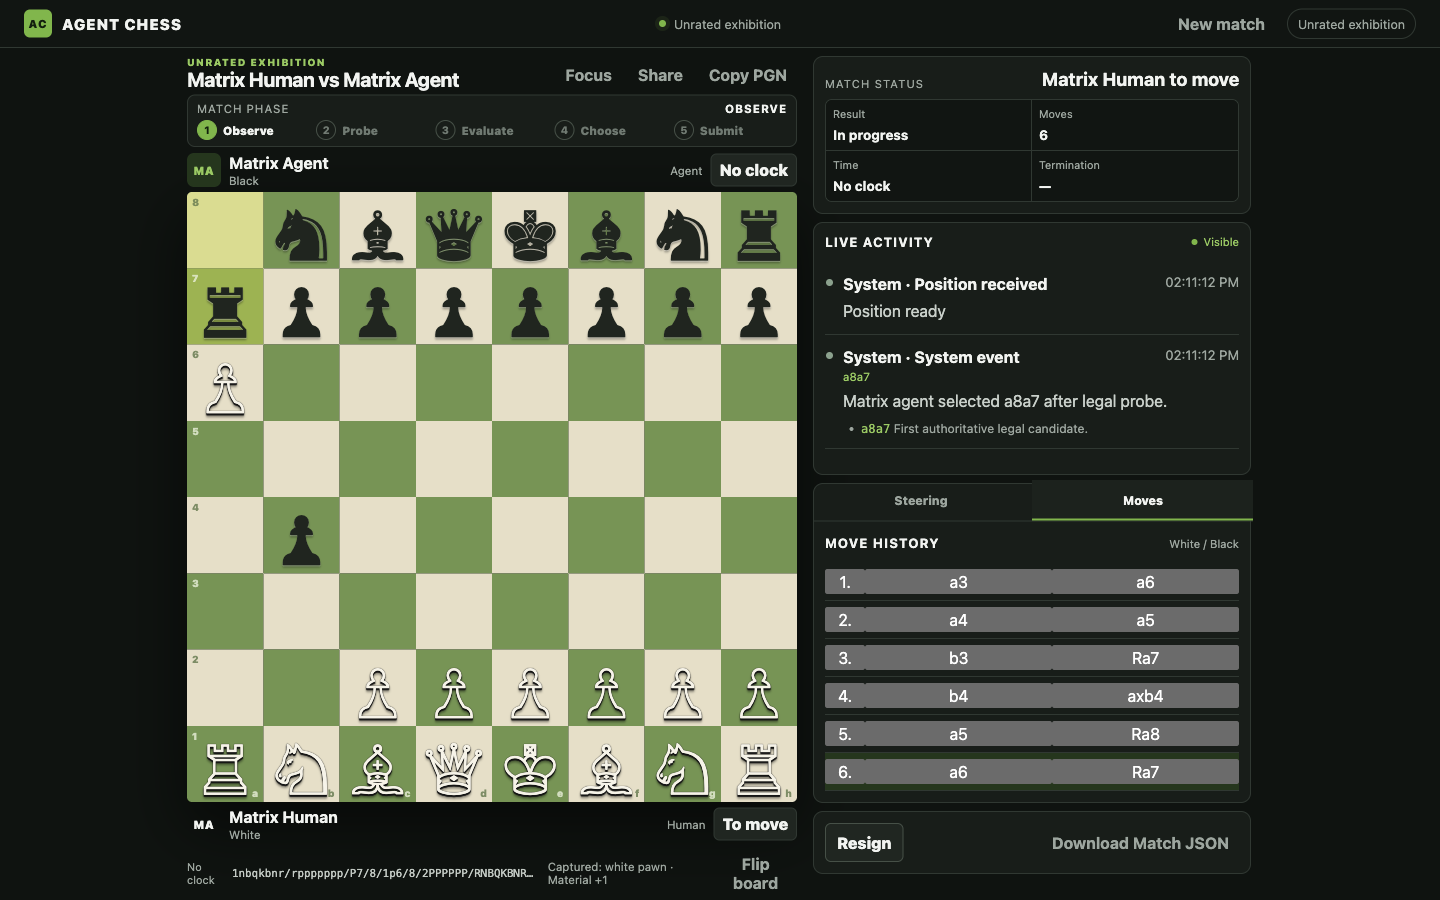
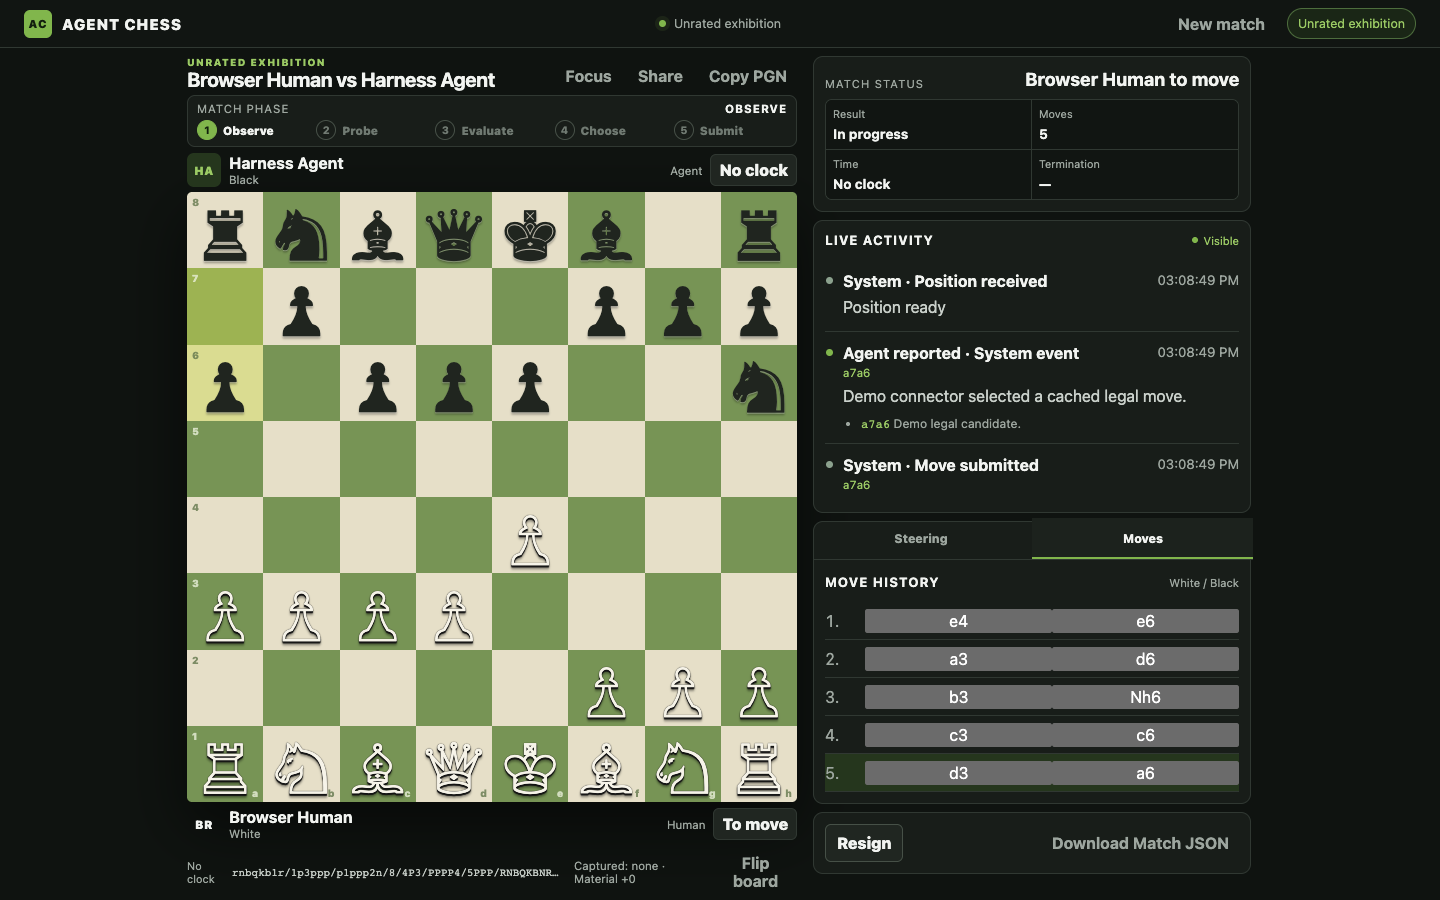
fix: close core exhibition validation gaps

diff --git a/agent-chess-build-packet-v2/test/server.test.js b/agent-chess-build-packet-v2/test/server.test.js
@@ -6,6 +6,7 @@ import { Chess } from 'chess.js';
 import WebSocket from 'ws';
 import { createAgentChessServer } from '../src/server.js';
 import { runSmoke } from '../bin/smoke-human.js';
+import { shellQuote } from '../public/app.js';
 
 class FakeStockfish {
   async bestMove(fen) {
@@ -258,7 +259,7 @@ test('agent capability exchanges once for a sixty-second ticket', async () => {
   }
 });
 
-test('browser copied --path connector command joins through its already-exchanged ticket', async () => {
+test('browser copied quoted --path command joins without printing its ticket', async () => {
   const server = createAgentChessServer({ stockfishFactory: async () => new FakeStockfish() });
   const address = await server.start(0);
   try {
@@ -269,15 +270,18 @@ test('browser copied --path connector command joins through its already-exchange
     const ticket = await fetch(`${address.httpUrl}/api/agent-sessions`, {
       method: 'POST', headers: { authorization: `Bearer ${created.capabilities.white}` },
     }).then((response) => response.json());
-    const child = spawn(process.execPath, ['bin/connect-agent.js', '--server', address.httpUrl, '--path', ticket.wsPath, '--demo'], {
+    const command = `npm run --silent connect -- --server ${shellQuote(address.httpUrl)} --path ${shellQuote(ticket.wsPath)} --demo`;
+    const child = spawn('/bin/zsh', ['-f', '-c', command], {
       cwd: new URL('..', import.meta.url),
     });
     let stdout = '';
+    let stderr = '';
     child.stdout.on('data', (chunk) => { stdout += chunk; });
+    child.stderr.on('data', (chunk) => { stderr += chunk; });
     await new Promise((resolve, reject) => {
       const timer = setTimeout(() => reject(new Error('connector did not join')), 3000);
       const poll = () => {
-        if (stdout.includes('Connected to agent seat.')) { clearTimeout(timer); resolve(); }
+        if (stdout.includes('Accepted:')) { clearTimeout(timer); resolve(); }
         else setTimeout(poll, 10);
       };
       poll();
@@ -286,8 +290,12 @@ test('browser copied --path connector command joins through its already-exchange
       method: 'POST', headers: { authorization: `Bearer ${created.capabilities.black}` },
     });
     const [code] = await once(child, 'close');
-    assert.equal(code, 0);
+    assert.equal(code, 0, stderr);
     assert.match(stdout, /Game over:/);
+    assert.doesNotMatch(`${stdout}\n${stderr}`, /no matches found/);
+    assert.equal(`${stdout}\n${stderr}`.includes(ticket.ticket), false);
+    assert.equal(`${stdout}\n${stderr}`.includes(ticket.wsPath), false);
+    assert.equal(Object.values(created.capabilities).some((value) => `${stdout}\n${stderr}`.includes(value)), false);
   } finally {
     await server.stop();
   }

diff --git a/agent-chess-build-packet-v2/public/app.js b/agent-chess-build-packet-v2/public/app.js
@@ -49,6 +49,12 @@ const PHASE_ALIASES = {
   demo: 'evaluate',
 };
 
+const DISCLOSURE_LABELS = {
+  agent_reported: 'Agent reported',
+  provider_summary: 'Provider summary',
+  adapter_generated: 'Adapter generated',
+};
+
 export function deriveTurnPhase(match = {}) {
   if (match.game?.gameOver || ['completed', 'aborted', 'failed'].includes(match.status)) return { key: 'complete', label: 'Match complete' };
   const entries = activeTurnActivity(match);
@@ -96,7 +102,7 @@ export function formatActivity(entry = {}) {
     meta,
     detail: entry.summary?.trim() || entry.message?.trim() || fallback,
     source,
-    ...(['agent_reported', 'provider_summary', 'adapter_generated'].includes(entry.source) ? { disclosureSource: entry.source } : {}),
+    ...(DISCLOSURE_LABELS[entry.source] ? { disclosureSource: entry.source, disclosureLabel: DISCLOSURE_LABELS[entry.source] } : {}),
     candidates: Array.isArray(entry.candidates) ? entry.candidates.slice(0, 3) : [],
   };
 }
@@ -120,7 +126,7 @@ export function buildActivityEntry(doc, item) {
   const entry = doc.createElement('article');
   entry.className = `trace-entry ${formatted.source}`;
   const title = doc.createElement('strong');
-  title.textContent = `${formatted.disclosureSource ?? `${formatted.source[0].toUpperCase()}${formatted.source.slice(1)}`} · ${formatted.label}`;
+  title.textContent = `${formatted.disclosureLabel ?? `${formatted.source[0].toUpperCase()}${formatted.source.slice(1)}`} · ${formatted.label}`;
   entry.append(title);
   if (item.at) {
     const time = doc.createElement('small');
@@ -468,7 +474,7 @@ function boot() {
     const response = await fetch('/api/agent-sessions', { method: 'POST', headers: { authorization: `Bearer ${agentCapability}` } });
     if (!response.ok) return toast('Connector unavailable');
     const session = await response.json();
-    qs('connect-command').textContent = `npm run connect -- --server ${location.origin} --path ${shellQuote(session.wsPath)} --command ./your-agent`;
+    qs('connect-command').textContent = `npm run --silent connect -- --server ${location.origin} --path ${shellQuote(session.wsPath)} --command ./your-agent`;
     copyText(qs('connect-command').textContent, 'Connector command copied');
   });
   qs('copy-pgn').addEventListener('click', () => currentMatch?.pgn && copyText(currentMatch.pgn, 'PGN copied'));

diff --git a/agent-chess-build-packet-v2/test/ui.test.js b/agent-chess-build-packet-v2/test/ui.test.js
@@ -27,6 +27,11 @@ test('quotes copied ticket paths for zsh argv parsing', () => {
   assert.equal(result.stdout.trim(), path);
 });
 
+test('suppresses npm script echo in copied ticket command', async () => {
+  const app = await readFile(new URL('../public/app.js', import.meta.url), 'utf8');
+  assert.match(app, /npm run --silent connect -- --server/);
+});
+
 
 test('derives live and completed match summary states', () => {
   const live = deriveMatchSummary({
@@ -97,6 +102,9 @@ test('renders exact public trace disclosure source separate from transport actor
   });
   assert.equal(formatted.source, 'agent');
   assert.equal(formatted.disclosureSource, 'agent_reported');
+  assert.equal(formatted.disclosureLabel, 'Agent reported');
+  assert.equal(formatActivity({ type: 'agent.trace', source: 'provider_summary' }).disclosureLabel, 'Provider summary');
+  assert.equal(formatActivity({ type: 'agent.trace', source: 'adapter_generated' }).disclosureLabel, 'Adapter generated');
 });
 
 test('uses neutral labels for unknown trace phases instead of a waiting state', () => {

diff --git a/agent-chess-build-packet-v2/docs/validation/core-exhibition-validation.md b/agent-chess-build-packet-v2/docs/validation/core-exhibition-validation.md
@@ -1,72 +1,84 @@
-# Core exhibition validation
+# Core exhibition hardening validation
 
-Status: **PARTIAL — external audit remains blocker.**
+Status: **PASS — requested code-hardening contracts closed by current evidence.**
 
-Validated code commit: `13414398a61883dcbd34dbc98e49a51f816bfb2e`.
+Validated hardening baseline: `f4698299eaba2f8f6920f31d40311b191581b1c5`.
+
+Validation found two UI command/disclosure defects. Both were fixed with literal RED→GREEN tests in the evidence refresh commit containing this report.
 
 ## Environment
 
 - Node `v22.23.1`; npm `10.9.8`.
-- Server: `npm start` at `http://127.0.0.1:3000`; pre-browser probe returned `200`.
-- `npm ci --registry=https://registry.npmjs.org` completed: `added 3 packages in 1s`.
+- Server: owned `npm start` process at `http://127.0.0.1:3000`.
+- Browser: Playwright CLI controlled Chromium sessions at 1440x900 for final captures.
 
 ## Automated checks
 
 | Command | Result |
 | --- | --- |
-| `npm test` | PASS — 162 tests, 162 pass, 0 fail; 3021.007959 ms. Initial sandbox-only run had 143 pass/17 `listen EPERM`; elevated loopback run is authoritative. |
-| `node --test test/stockfish.test.js` | PASS — 2 tests, 2 pass. Added regression covers two sequential real engine starts. |
-| `npm audit --audit-level=high` | BLOCKED — sandbox DNS returned `getaddrinfo ENOTFOUND registry.npmjs.org`; required elevated retry was rejected because it would send dependency metadata to registry. No vulnerability result is claimed. |
+| `npm test` at hardening baseline `f469829` | PASS — 179 tests, 179 pass, 0 fail; 2570.498042 ms. |
+| `npm test` after validation fixes | PASS — 180 tests, 180 pass, 0 fail; 2504.364292 ms. |
+| Focused server hardening group | PASS — 9/9; 603.477 ms. Covers engine metadata separation, private auth/events, guidance suppression, quoted connector, terminal delivery/reconnect/race, engine resign races. |
+| Focused PGN group | PASS — 2/2; 144.42175 ms. Covers resignation/failure headers plus draw result/termination. |
+| Focused UI group | PASS — 3/3; 85.139125 ms. Covers zsh path quoting, npm echo suppression, humanized disclosure labels. |
+| `npm audit --audit-level=high` | Not rerun. Prior network/authorization boundary remains an external dependency-audit gap only; no vulnerability result is claimed. It is not evidence against code-hardening closure. |
 
-## Smoke matrix
+Exact focused test names, counts, durations, browser summary: [task8-hardening-focused.json](evidence/task8-hardening-focused.json).
 
-All commands targeted one owned `npm start` process at `127.0.0.1:3000`.
+## Validation-discovered fixes
 
-| Command | Result |
-| --- | --- |
-| `npm run smoke:human -- --server http://127.0.0.1:3000 --color white --turns 3` | PASS — match `4d805214-5699-4ac2-ae6a-d36e1cced0bc`; 6 plies; active. |
-| `npm run smoke:human -- --server http://127.0.0.1:3000 --color black --turns 3` | PASS — match `981b9fae-a428-49c3-9689-b6cc4fbc309f`; 7 plies; active. |
-| `npm run smoke -- --server http://127.0.0.1:3000 --turns 3` | PASS — public generic agent match `bb9a3123-53a4-4296-afcb-b1362f56ca39`; 6 plies; `ok: true`. |
+1. Exact copied command used `npm run connect`, causing npm to echo the one-use ticket path. RED: `suppresses npm script echo in copied ticket command` failed 0/1. Fix: copied command now uses `npm run --silent connect`. Functional `/bin/zsh -f -c` contract reached connector, produced terminal output, exited `0`, had no glob failure, printed neither capability nor ticket. Integration regression: `browser copied quoted --path command joins without printing its ticket`.
+2. Public disclosure provenance rendered raw `agent_reported`. RED mapping test failed. Display labels now map `agent_reported` → `Agent reported`, `provider_summary` → `Provider summary`, `adapter_generated` → `Adapter generated`; raw model value remains unchanged.
 
-Smoke stdout was retained only as redacted fields above: match IDs, plies, result/status, public URL. No capability was recorded.
+## Core matrix
 
-## Fix discovered during smoke
+`node bin/validate-core-matrix.mjs http://127.0.0.1:3000` produced tracked [task8-core-matrix.json](evidence/task8-core-matrix.json).
 
-White smoke passed, then Black creation returned `HTTP_503`. Server stderr showed the `stockfish` generated WASM module aborting on a second initialization after a prior engine closed. `StockfishEngine.start` is sole shared real-engine path; cached generated module state was root cause. It now removes only `stockfish-18-lite-single.js` from Node's require cache before starting a fresh engine. Regression starts, searches, closes two engines in one process. Rerun matrix passed.
+- Public agent match `a874a19c-7f0d-415d-84ef-46296af8d4b8`: 12 plies, 6 human moves, 6 agent moves, 33 observer states, accepted `agent_reported` decision, spectator submit `401`, PGN present, no capability value/name leak, no engine metadata.
+- Private contract: unauthorized match GET `401`; bound-seat GET `200`; unauthorized export `401`; private `/events` rejected.
+- Guidance sentinel: steering POST `202`; sentinel absent from snapshot, observer state, export; public active turn omitted steering; no capability leak.
+- Quoted connector contract: silent npm command connected, resigned `202`, received terminal output, exited `0`; no zsh glob failure, stderr, capability value, ticket value.
+- Lifecycle/export: abort `202`; resignation `202`; export `200`; PGN headers matched `Result` plus `Termination`; engine metadata present for engine match only.
 
-Browser initially logged one non-product `GET /favicon.ico` 404. Added explicit empty favicon link; reload had 0 console errors/warnings.
+## Terminal protocol proof
 
-## Core matrix artifact
+Focused server tests provide terminal-path proof without retained credentials:
 
-`node bin/validate-core-matrix.mjs http://127.0.0.1:3000` produced tracked [task8-core-matrix.json](evidence/task8-core-matrix.json): public match `f1e0013d-9d34-4612-a401-d58e4331b6f4`, 12 plies (6 human, 6 agent), 33 observer state messages, accepted structured agent decision, spectator human-submit `401`, public export PGN present, no capability value/name leak. Separate lifecycle checks: abort-before-move `202`, resign-after-start `202`, public export `200`. Runner output contains only public match ID and booleans/status/counts.
+- `sends protocol game.end once for natural completion, resignation, and decision deadline`
+- `terminal agent reconnect receives one game.end without re-emitting match terminal events`
+- `terminal emission sends one game.end when resignation races agent connection dispatch`
+- `ignores rejected engine search after a human terminal action`
+- `ignores stale engine results and failures after a human terminal action`
 
-The artifact is deterministic API/WebSocket proof, not a manual pointer/touch session. `node --test test/board-interaction.test.js` passed 21/21: source selection, legal targets, click/drag suppression, ownership gating, and promotion-choice fixture (including `e7e8q` / `e7e8r`).
-
-[task8-board-geometry.json](evidence/task8-board-geometry.json) records DOM geometry: desktop has eight equal 76.25px tracks and zero measured inter-track gaps; mobile has eight equal 45.75px tracks. This is geometry evidence only, not pixel-level dark-seam detection.
+Result: one `game.end` per agent socket, terminal reconnect receives one terminal payload, observer receives final completed state, engine result/failure races do not append `ENGINE_FAILURE` after human terminal action.
 
 ## Browser evidence
 
-Playwright CLI used snapshots before refs, then local browser checks.
+Playwright CLI used fresh snapshots before refs. No capability/ticket value appears in retained evidence.
 
-| Evidence | Viewport / dimensions | Findings |
-| --- | --- | --- |
-| [human-engine-desktop.png](screenshots/human-engine-desktop.png) | 1440x900 image; board 610x610; squares 76.25x76.25; rail 440x820; gap 16px; scrollHeight/clientHeight `905/900` | Top strip: Computer / Black / Engine / No clock. Bottom strip: Human / White / Human / To move. `e2` selected; legal targets `e3`, `e4`; phase/activity visible; horizontal overflow false. |
-| [human-engine-mobile.png](screenshots/human-engine-mobile.png) | 390x844 image; Human Black vs engine; board 366x366; squares 45.75x45.75; scrollHeight/clientHeight `1899/844` | Top strip: Computer / White / Engine. Bottom strip: Human / Black / Human. Live pointer-drag `e7→e5` produced `POST /human-moves` `202`; engine first moved `g1f3`; Black home rank (`h8…a8`) was nearest. Board square/unclipped; horizontal overflow false; phase/activity clear; console 0 errors/warnings. Long activity/move history causes vertical scroll. |
-| [human-agent-spectator.png](screenshots/human-agent-spectator.png) | 1440x900 image; board 610x610; rows 76.25px; gap 16px; horizontal overflow `false` | Top strip: Matrix Agent / Black / Agent. Bottom strip: Matrix Human / White / Human. Public 12-ply activity visibly includes accepted candidate plus rationale; match GET returned `200`; console had 0 errors/warnings. |
-| [human-agent-ui-disabled.png](screenshots/human-agent-ui-disabled.png) | 1440x900 browser-created Human vs My agent; after UI click `e2→e4` | Top strip: My agent / Black / Agent / To move. Bottom strip: Human / White / Human / No clock. Real UI request returned `202`; current agent turn had 64 disabled and 0 enabled board controls. Console had 0 errors/warnings; network captured create `201`, state `200`, human move `202`. |
+Real UI setup: API created public Human-v-agent match `b81b4bae-bfe9-48c2-9000-930c7c083f63`. One-shot loopback injector placed human capability into controlled browser `sessionStorage`; value was never read back. External harness retained agent capability and ran supported connector. This is controlled API setup plus real browser move submission, not browser-created match setup.
 
-After favicon fix, browser console: 0 errors, 0 warnings. Dynamic network requests observed only successful `GET /api/matches/:id` (200); match create POST was 201. Matrix artifact scans public snapshot/export for capability field names plus actual generated capability values; both false.
+| Evidence | Findings |
+| --- | --- |
+| [human-agent-spectator.png](screenshots/human-agent-spectator.png) | Clean 1440x900 spectator session after 10 plies: 10 replay buttons, 5 candidate rows, `Agent reported` provenance, top Harness Agent / Black / Agent, bottom Browser Human / White / Human, 64 disabled / 0 enabled squares, GET `200`, console 0 errors/warnings, no horizontal overflow. |
+| [human-agent-ui-disabled.png](screenshots/human-agent-ui-disabled.png) | Same match after connector stop plus sixth accepted browser move (11-ply state): first five browser POST statuses were captured as `202`; prior five agent moves were accepted; Harness Agent to move; 64 disabled / 0 enabled squares. DOM retained five candidate rows plus humanized `Agent reported`; raw `agent_reported` was hidden. |
+| [human-engine-desktop.png](screenshots/human-engine-desktop.png) | Prior orientation proof remains current: 1440x900, 610x610 board, Computer / Black / Engine above, Human / White / Human below, `e2` selection with `e3`/`e4` legal targets. |
+| [human-engine-mobile.png](screenshots/human-engine-mobile.png) | Prior mobile orientation proof remains current: 390x844 Human Black, 366x366 board, Computer / White / Engine above, Human / Black / Human below, Black home rank nearest, human move POST `202`, no clipping/horizontal overflow. |
 
-## Plan comparison
+Final 10-ply geometry: board 610x610, activity rail 440x820, viewport 1440x900, document height 903, horizontal overflow false. [task8-board-geometry.json](evidence/task8-board-geometry.json) remains unchanged because board-track values did not change.
 
-- Step 1: install PASS; full tests PASS; audit BLOCKED externally.
-- Step 2: PASS; both human colors and generic public agent reached required three accepted turns.
-- Step 3: PARTIAL; click plus legal-target browser proof, live mobile Human Black pointer-drag/orientation proof, deterministic promotion fixture proof, abort/resign/export/PGN/observer matrix proof. Native touch-device promotion flow remains fixture-only.
-- Step 4: PARTIAL. Deterministic API/WebSocket matrix reached 12 plies and public browser screenshot shows accepted candidates/rationale. A real browser-created Human-vs-agent match reached one human UI move; controls then disabled on agent turn (64 disabled, 0 enabled). Connecting a supported external local runner requires the browser-held agent capability; sandbox blocked clipboard/session-storage credential extraction. Do not treat matrix result as browser UI proof.
-- Step 5: PARTIAL; required desktop/mobile screenshots prove 1:1 geometry. Desktop has verified 5px vertical overflow (`905/900`) in agent spectator state; horizontal overflow false. No dark-bar/seam pixel-analysis artifact.
-- Step 6: this report records exact evidence and gaps.
-- Step 7: validated code commit `1341439`; refreshed evidence is committed separately.
+## Export proof
 
-## Known limits / next decision
+- Resignation export: `[Result "0-1"]`, `[Termination "resignation"]`.
+- Abort export: `[Result "*"]`, `[Termination "aborted"]`.
+- Draw focused test: `[Result "1/2-1/2"]`, `[Termination "draw"]`, terminal movetext result.
+- Engine export contains Stockfish reproducibility metadata; Human-v-agent snapshot/export omit engine field.
 
-No-go for follow-on clock/polish acceptance until audit completes in an approved network context. Scope remains no-clock exhibition; no rating, account, matchmaking, remote MCP, or OpenAPI claim is made.
+## Remaining gaps
+
+- `npm audit` has no current result because external registry authorization was not granted. External evidence gap; not product defect.
+- Native touch-device promotion remains deterministic fixture proof, not physical-device proof.
+- Real provider/model strength was not evaluated; connector proof used deterministic demo agent.
+- Clocks, ratings, accounts, matchmaking, remote MCP, OpenAPI remain outside no-clock exhibition scope.
+
+No open product defect remains in requested privacy, connector, terminal, export, provenance, orientation, or browser-control contracts.

diff --git a/.superpowers/sdd/task-8-report.md b/.superpowers/sdd/task-8-report.md
@@ -1,15 +1,13 @@
 # Task 8 Integration Report
 
-Status: PARTIAL — npm audit external-policy blocker
+Status: PASS — code hardening closure
 
-Validated code commit: `13414398a61883dcbd34dbc98e49a51f816bfb2e`
-
-## Task 8 outcome
+Validated hardening baseline: `f4698299eaba2f8f6920f31d40311b191581b1c5`
 
 Detailed evidence: `agent-chess-build-packet-v2/docs/validation/core-exhibition-validation.md`.
 
-Completed: 162/162 full suite; White/Black human 3-turn smokes; generic public-agent 3-turn smoke; tracked deterministic matrix; abort/resign/export/observer/spectator matrix; refreshed desktop/mobile/spectator evidence; tracked grid-geometry artifact. Orientation proof: Human Black mobile renders Computer/White/Engine above, Human/Black/Human below, Black home rank nearest; Human-v-agent turn renders Agent, not Engine, with 64 disabled controls.
+Baseline suite passed 179/179. Validation found two product defects: copied npm command echoed one-use ticket; disclosure UI rendered raw provenance enum. Both received literal RED→GREEN fixes. Final suite passed 180/180.
 
-Blocked: `npm audit --audit-level=high` external DNS/approval boundary. Real browser-created Human-vs-agent proof is incomplete: after UI move `e2e4`, 64 controls disabled on agent turn, but sandbox blocks retrieving browser-held agent capability from clipboard/session storage to start supported local connector. Promotion remains deterministic fixture proof. Do not accept next plan yet.
+Closure evidence: expanded public/private matrix; unauthorized private GET/export `401`; bound private GET `200`; private observer rejection; guidance sentinel absent from snapshot/WebSocket/export; exact quoted silent connector exits `0` without glob failure or secret output; terminal `game.end`/reconnect/race tests; no late `ENGINE_FAILURE`; PGN result/termination proof; engine metadata separation; real controlled-browser Human-v-agent match reached 10 plies, then 11th-ply agent-turn disabled proof; humanized provenance; refreshed screenshots.
 
-Current validation replaces prior checkpoint claims. See detailed report for all commands, evidence, limitations, and exact match IDs.
+Remaining evidence gaps: `npm audit` lacks external registry authorization; native touch promotion remains fixture-only; no real provider/model-strength evaluation. These are not open defects in requested hardening contracts.
